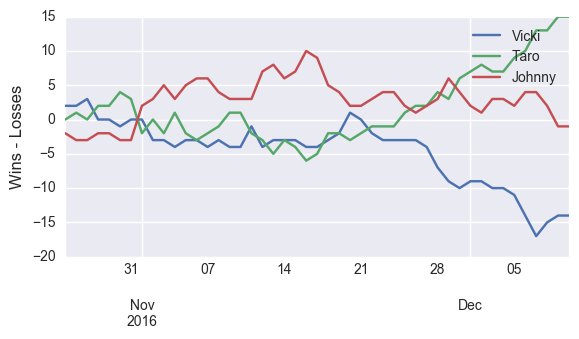
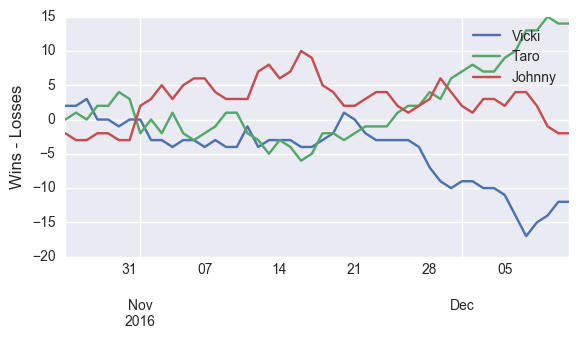
update 12/11

diff --git a/index.html b/index.html
@@ -35,7 +35,7 @@
 <a id="the-bet-is-on" class="anchor" href="#the-bet-is-on" aria-hidden="true"><span aria-hidden="true" class="octicon octicon-link"></span></a>The bet is on.</h1>
 
 <h1>
-<a id="current-winner-of-2016-17-season" class="anchor" href="#current-winner-of-2016-17-season" aria-hidden="true"><span aria-hidden="true" class="octicon octicon-link"></span></a>Current winner of 2016-17 Season (as of 12/10/2016):</h1>
+<a id="current-winner-of-2016-17-season" class="anchor" href="#current-winner-of-2016-17-season" aria-hidden="true"><span aria-hidden="true" class="octicon octicon-link"></span></a>Current winner of 2016-17 Season (as of 12/11/2016):</h1>
 
 <h2>
 <a id="none" class="anchor" href="#none" aria-hidden="true"><span aria-hidden="true" class="octicon octicon-link"></span></a><strong>Taro</strong>
@@ -44,23 +44,23 @@
 <h2>
 <a id="johnny" class="anchor" href="#johnny" aria-hidden="true"><span aria-hidden="true" class="octicon octicon-link"></span></a>Johnny</h2>
 
-<p>Wins: 117<br>
-Losses: 118<br>
-Remaining wins available: 501</p>
+<p>Wins: 119<br>
+Losses: 121<br>
+Remaining wins available: 497</p>
 
 <h2>
 <a id="taro" class="anchor" href="#taro" aria-hidden="true"><span aria-hidden="true" class="octicon octicon-link"></span></a>Taro</h2>
 
-<p>Wins: 120<br>
-Losses: 105<br>
-Remaining wins available: 506</p>
+<p>Wins: 123<br>
+Losses: 109<br>
+Remaining wins available: 500</p>
 
 <h2>
 <a id="vicki" class="anchor" href="#vicki" aria-hidden="true"><span aria-hidden="true" class="octicon octicon-link"></span></a>Vicki</h2>
 
-<p>Wins: 107<br>
-Losses: 121<br>
-Remaining wins available: 511</p>
+<p>Wins: 112<br>
+Losses: 124<br>
+Remaining wins available: 505</p>
 
 <img src='pythoncode/win_percent.png' alt='Winning Percentage Over Time'>
 <h1>
